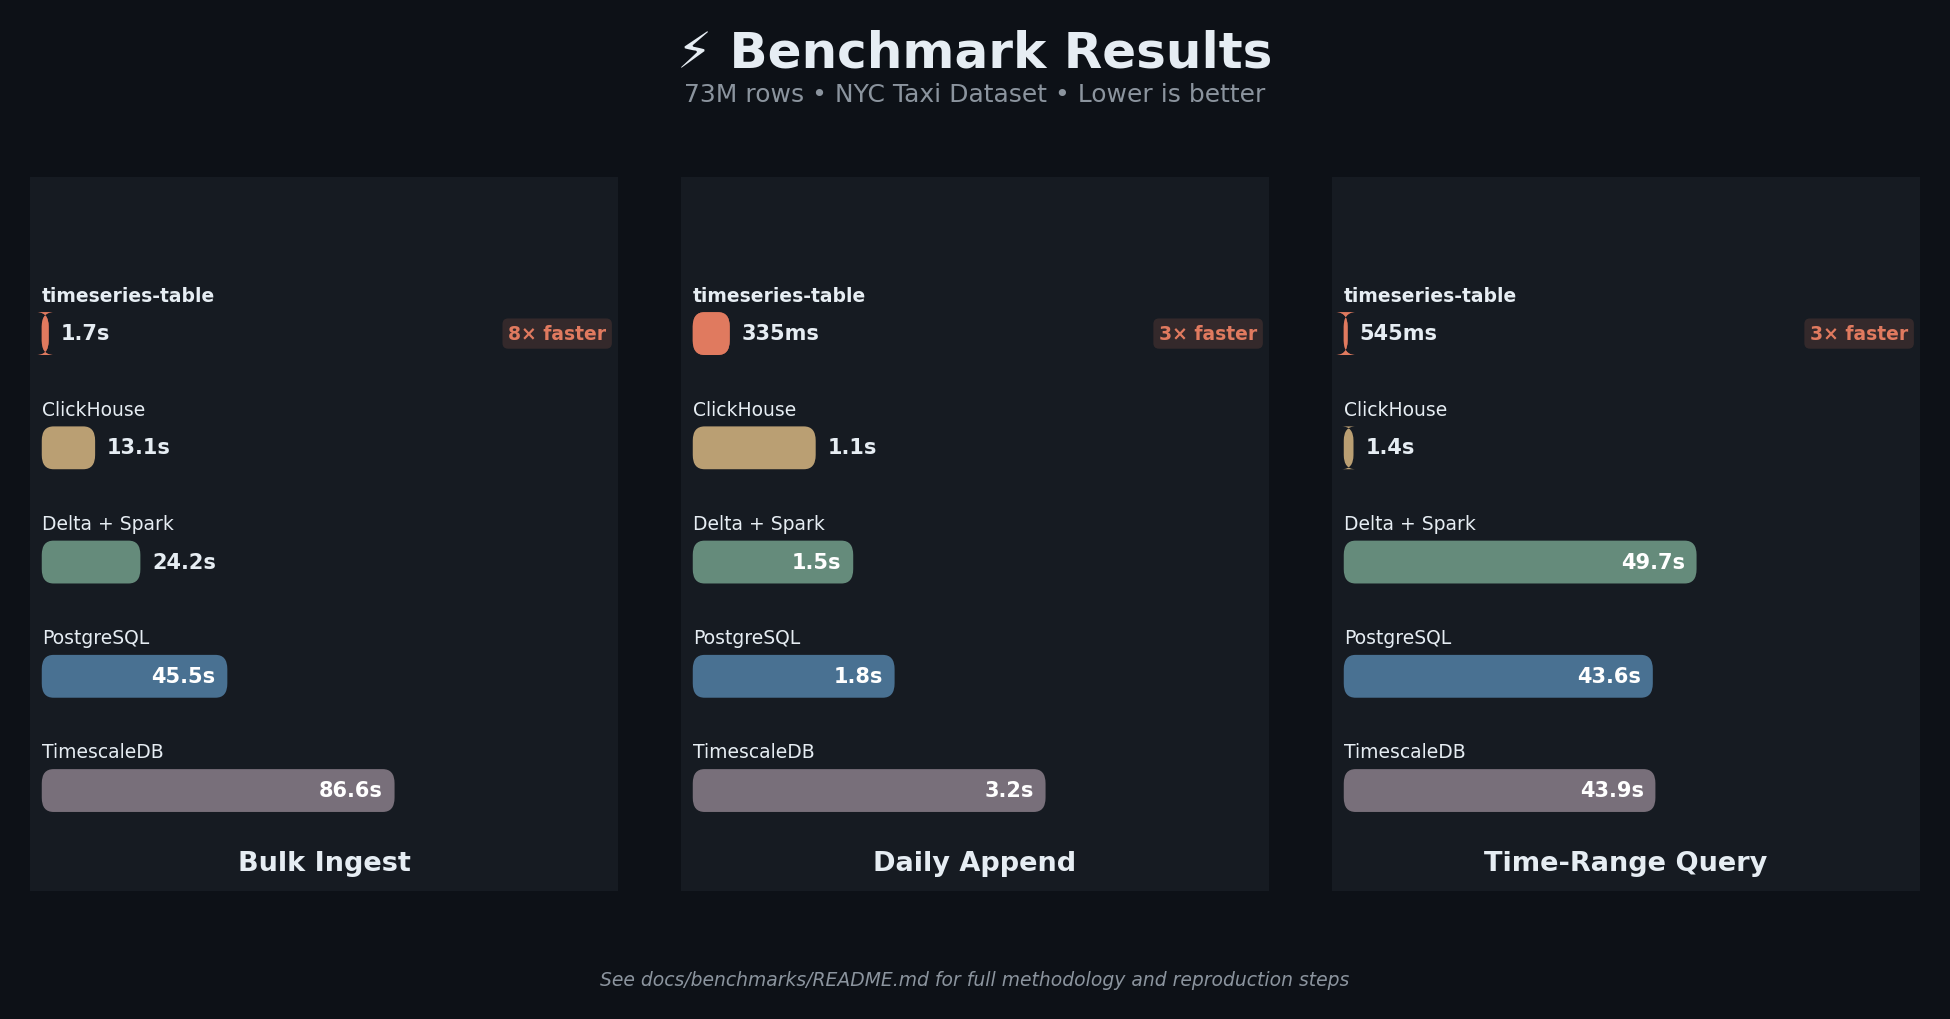
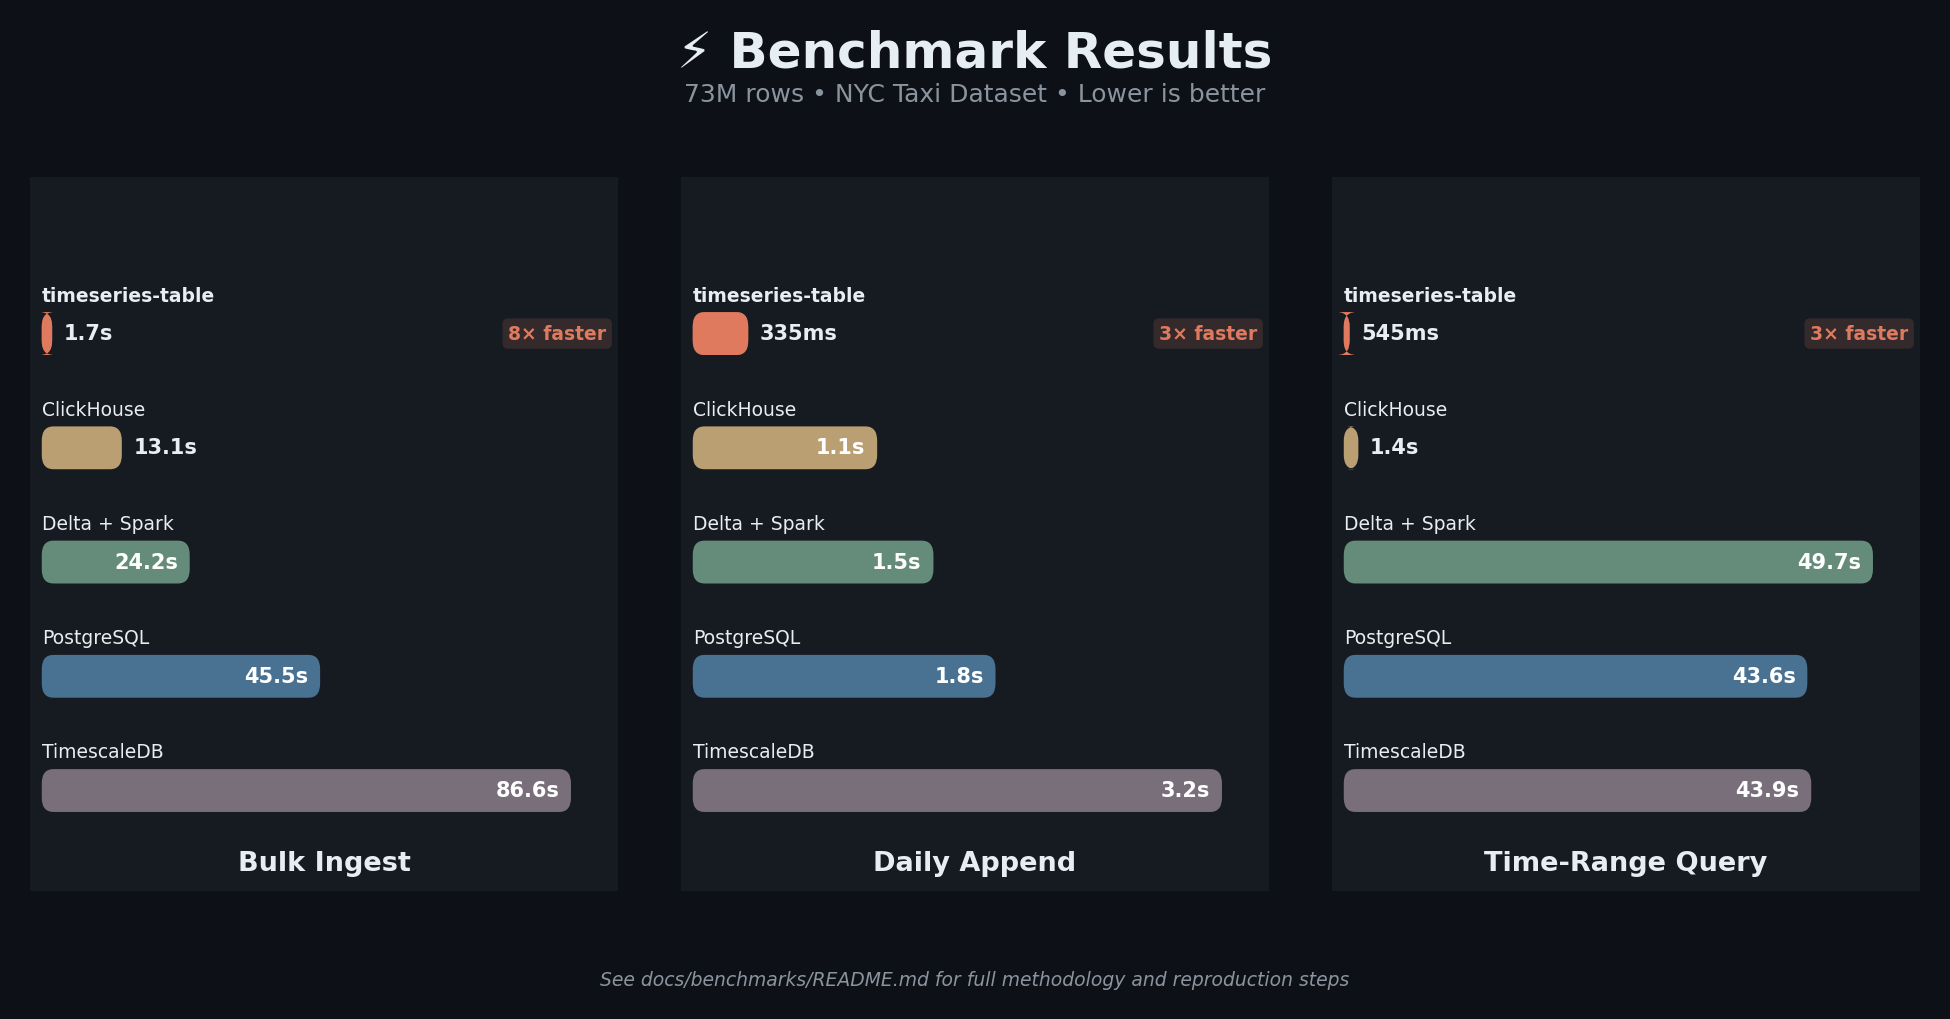
feat: increase maximum bar width for benchmark chart

diff --git a/scripts/bench/generate_benchmark_chart_v2.py b/scripts/bench/generate_benchmark_chart_v2.py
@@ -46,7 +46,7 @@ BAR_HEIGHT = 0.06                 # Height of each bar (in axes coords)
 BAR_SPACING = 0.16                # Vertical spacing between bars
 BAR_START_Y = 0.78                # Y position of first bar
 BAR_LEFT_MARGIN = 0.02            # Left margin for bars
-BAR_MAX_WIDTH = 0.60              # Maximum bar width (for longest bar)
+BAR_MAX_WIDTH = 0.90              # Maximum bar width (for longest bar)
 BAR_ROUNDING_FACTOR = 3           # Bar corner rounding (height / this value)
 BAR_HERO_ALPHA = 1.0              # Opacity for hero (winner) bar
 BAR_OTHER_ALPHA = 0.75            # Opacity for other bars
